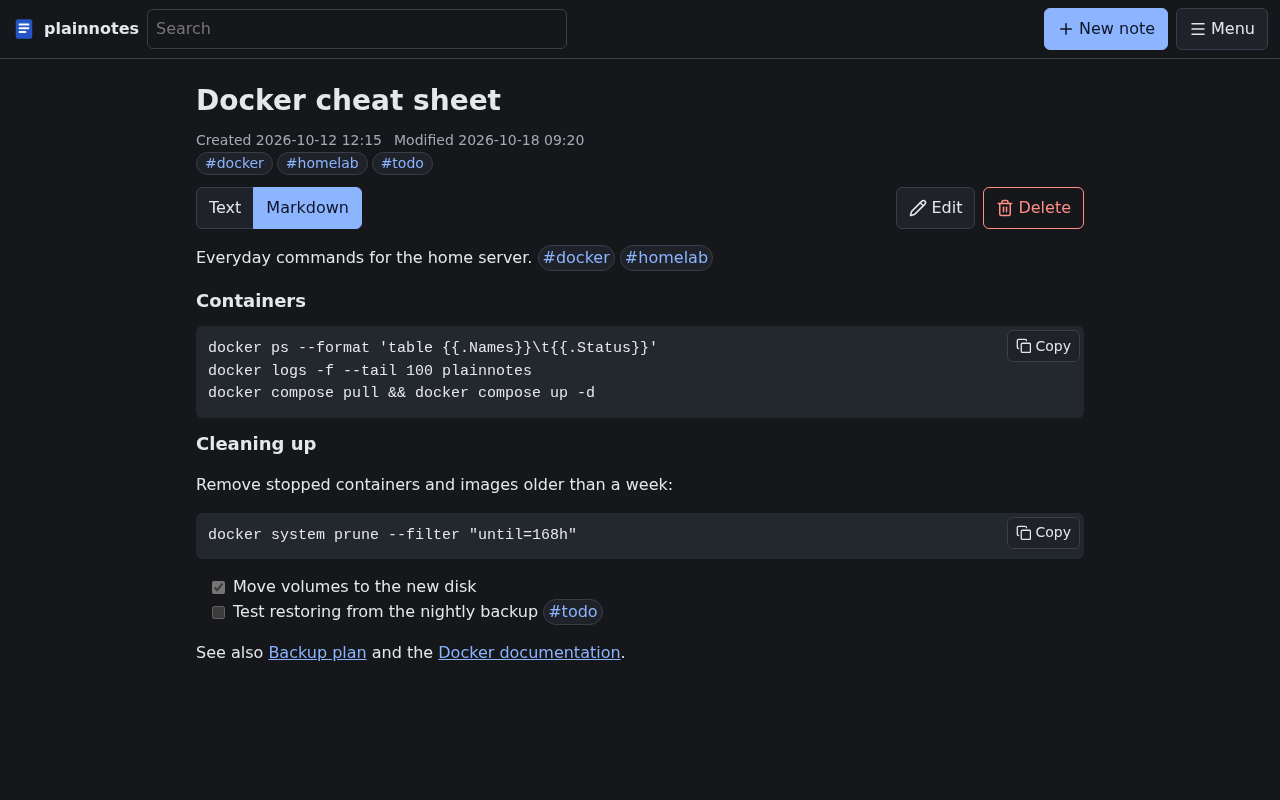
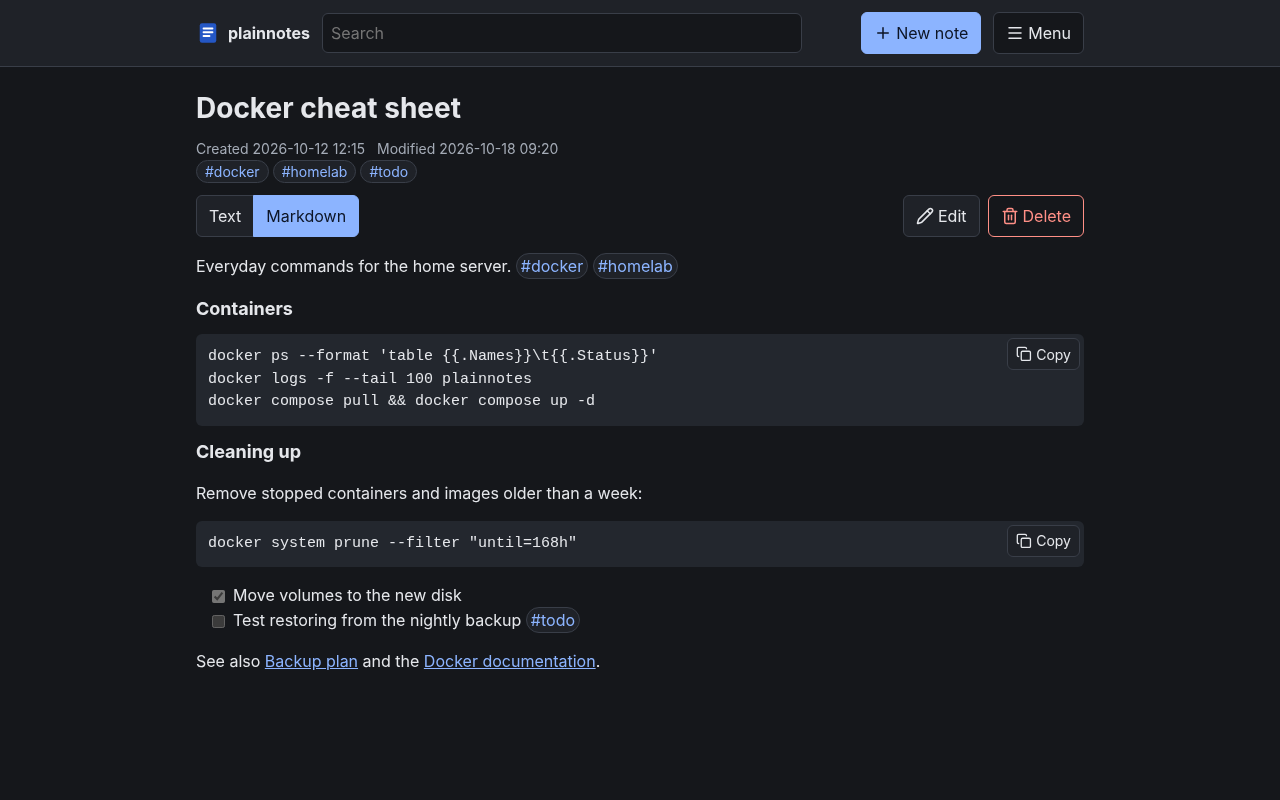
Line the header up with the page and tidy the attachments
The header bar spread its contents to the window edges: the logo and
search at the far left, New note and Menu at the far right, away from
the notes and the editor in the middle. The bar now has a tinted
background and its contents line up with the page column at every
width. Search grows up to 480px.

Attachments, in the editor and the note view, are file tiles: the name
and size on the first line, the buttons on the second with Delete at
the far right. Upload files sits at the right end of the Attachments
heading, as small as the buttons in the tiles. The notes list, search
results and the trash are bordered cards, and "Pinned" and "Other
notes" are small labels above them.

In the editor, the text area has a little more room above it (16px
below the title row) and below it (24px above the attachments). On
phones, Wrap lines, Save and Close get a row of their own, spread across
its width. The login page centres the logo and name. Dialogs share the
cards' corners, and each count on the Tags page sits next to its tag.

Only the stylesheet changes; every page keeps its buttons and behaviour.
New browser tests check the alignment, the editor spacing, the phone
button row and the login heading. The README screenshot is retaken
with the same note.

Claude-Session: https://claude.ai/code/session_011bbeso2KdC9qfkD2dsS5up

diff --git a/app/static/css/app.css b/app/static/css/app.css
@@ -20,6 +20,7 @@
   --space-4: 16px;
   --space-5: 24px;
   --radius: 6px;
+  --radius-card: 8px;
   --touch: 40px;
   --content-width: 920px;
 
@@ -123,12 +124,23 @@ h2 {
   list-style: none;
 }
 
+/* The notes list, search results and the trash: one bordered card, rows divided by lines */
+.note-list,
+.trash-list {
+  border: 1px solid var(--border);
+  border-radius: var(--radius-card);
+}
+
 .note-row,
-.trash-list li,
-.attachments li {
-  padding: var(--space-3) 0;
+.trash-list li {
+  padding: var(--space-3) var(--space-4);
   border-bottom: 1px solid var(--border);
   overflow-wrap: anywhere;
+}
+
+.note-row:last-child,
+.trash-list li:last-child {
+  border-bottom: 0;
 }
 
 .list-head,
@@ -196,7 +208,9 @@ h2 {
   color: var(--danger);
 }
 
-.button.small {
+/* Upload files is as small as the attachment buttons beside it. */
+.button.small,
+.attachments-panel > .button {
   min-height: 32px;
   padding: 2px var(--space-2);
   font-size: 0.875rem;
@@ -250,6 +264,8 @@ select {
 
 /* Header and menu */
 
+/* A tinted bar across the window; its contents line up with the page column (.main) below, whose
+   side padding is the last term of the max(). */
 .app-header {
   position: sticky;
   top: 0;
@@ -257,9 +273,14 @@ select {
   display: flex;
   flex-wrap: wrap;
   align-items: center;
-  gap: var(--space-2);
-  padding: var(--space-2) var(--space-3);
+  gap: var(--space-3);
+  padding-block: var(--space-2);
+  padding-inline: max(var(--space-3), calc((100% - var(--content-width)) / 2 + var(--space-3)));
   border-bottom: 1px solid var(--border);
+  background: var(--bg-raised);
+}
+
+.app-header .button:not(.primary) {
   background: var(--bg);
 }
 
@@ -399,6 +420,7 @@ select {
 .login-form h1 {
   display: flex;
   align-items: center;
+  justify-content: center;
   gap: var(--space-2);
 }
 
@@ -417,6 +439,14 @@ select {
 
 .note-sections > section + section {
   margin-top: var(--space-5);
+}
+
+/* "Pinned" and "Other notes": small labels above their cards */
+.note-sections h2 {
+  color: var(--text-muted);
+  font-size: 0.8125rem;
+  letter-spacing: 0.04em;
+  text-transform: uppercase;
 }
 
 .note-link {
@@ -462,6 +492,15 @@ mark {
   font-size: 0.875rem;
   text-decoration: none;
   overflow-wrap: anywhere;
+}
+
+/* Tags page: more space between tags than between a tag and its count */
+.tag-list {
+  gap: var(--space-2) var(--space-4);
+}
+
+.tag-list li {
+  gap: var(--space-1);
 }
 
 .tag-list .tag {
@@ -539,8 +578,9 @@ mark {
   margin-top: var(--space-5);
 }
 
-.attachments li {
-  padding: var(--space-2) 0;
+.attachments > h2 {
+  margin-bottom: var(--space-2);
+  font-size: 1rem;
 }
 
 /* Rendered Markdown */
@@ -644,6 +684,13 @@ mark {
   font-weight: 600;
 }
 
+/* Phones: Wrap lines, Save and Close get a row of their own, spread across its width. Wider
+   screens put them beside the title. */
+.editor-actions {
+  flex: 1 1 100%;
+  justify-content: space-between;
+}
+
 .dirty-dot {
   font-size: 0.75em;
 }
@@ -652,6 +699,7 @@ mark {
   flex: 1;
   width: 100%;
   min-height: 50vh;
+  margin-top: var(--space-2); /* With the editor's gap: a little more room below the title row */
   padding: var(--space-3);
   font-size: 16px; /* At least 16px, or iOS zooms in on focus. */
   line-height: 1.5;
@@ -663,19 +711,69 @@ mark {
   outline: 2px dashed var(--accent);
 }
 
+/* Attachments (editor): a heading row with Upload files at its right end, then the file tiles */
 .attachments-panel {
-  padding-top: var(--space-2);
-  border-top: 1px solid var(--border);
+  display: grid;
+  grid-template-columns: minmax(0, 1fr) auto;
+  align-items: center;
+  gap: var(--space-2);
+  margin-top: var(--space-4);
+}
+
+.attachments-panel > h2 {
+  margin: 0;
+  font-size: 1rem;
+}
+
+.attachments-panel > .button {
+  grid-row: 1;
+  grid-column: 2;
+}
+
+.attachments-panel > :not(h2, .button) {
+  grid-column: 1 / -1;
+}
+
+.attachments-panel > p {
+  margin: 0;
+}
+
+.attachment-rows:empty {
+  display: none;
+}
+
+/* File tiles, in the editor and the note view: as many columns as fit, at least 340px wide */
+.attachment-rows,
+.attachments ul {
+  display: grid;
+  grid-template-columns: repeat(auto-fill, minmax(min(100%, 340px), 1fr));
+  gap: var(--space-2);
 }
 
 .attachment-rows li,
-.upload-row {
-  padding: var(--space-1) 0;
+.attachments li {
+  padding: var(--space-3);
+  border: 1px solid var(--border);
+  border-radius: var(--radius-card);
+  background: var(--bg-raised);
   overflow-wrap: anywhere;
 }
 
-.attachment-rows .name {
-  flex: 1 1 160px;
+/* Line 1: the file name, with its size at the right. Line 2: the buttons, Delete at the far right.
+   The name's basis leaves room for the size but not for a button, so the buttons always wrap. */
+.attachment-rows .name,
+.attachments li > a {
+  flex: 1 1 calc(100% - 96px);
+  font-weight: 600;
+}
+
+.attachment-rows .muted,
+.attachments li > .muted {
+  flex: none;
+}
+
+.attachment-rows .danger {
+  margin-left: auto;
 }
 
 .upload-row progress {
@@ -688,7 +786,7 @@ mark {
   width: min(480px, calc(100vw - 2 * var(--space-4)));
   padding: var(--space-4);
   border: 1px solid var(--border);
-  border-radius: var(--radius);
+  border-radius: var(--radius-card);
   background: var(--bg);
   color: var(--text);
   box-shadow: var(--shadow);
@@ -752,18 +850,29 @@ mark {
 /* Wider screens */
 
 @media (min-width: 720px) {
+  /* The last term matches the side padding of .main at this width. */
+  .app-header {
+    padding-block: var(--space-3);
+    padding-inline: max(var(--space-4), calc((100% - var(--content-width)) / 2 + var(--space-4)));
+  }
+
   .search {
     order: 0;
     flex: 1 1 auto;
-    max-width: 420px;
+    max-width: 480px;
   }
 
   .main {
-    padding: var(--space-5) var(--space-4);
+    padding: var(--space-5) var(--space-4) calc(2 * var(--space-5));
   }
 
   h1 {
     font-size: 1.75rem;
+  }
+
+  .editor-actions {
+    flex: 0 1 auto;
+    justify-content: flex-start;
   }
 
   .editor-text {

diff --git a/tests/test_e2e.py b/tests/test_e2e.py
@@ -658,6 +658,82 @@ def test_upload_image_and_see_it_in_markdown(page: Page, server: Server, tmp_pat
     expect(image_element).to_have_js_property("naturalWidth", 24)
 
 
+# --- layout ---------------------------------------------------------------------------
+
+
+def box(locator: Locator) -> dict[str, float]:
+    found = locator.bounding_box()
+    assert found is not None, locator
+    return found
+
+
+def right(found: dict[str, float]) -> float:
+    return found["x"] + found["width"]
+
+
+def bottom(found: dict[str, float]) -> float:
+    return found["y"] + found["height"]
+
+
+def middle(found: dict[str, float]) -> float:
+    return found["y"] + found["height"] / 2
+
+
+@pytest.mark.parametrize("width", [1680, 1000, 390])
+def test_header_lines_up_with_the_page_column(page: Page, width: int) -> None:
+    create_note(page, unique("Column"), "")
+    page.set_viewport_size({"width": width, "height": 800})
+    page.goto("#/")
+    notes = box(page.locator(".note-list").first)
+    assert box(page.locator(".brand"))["x"] == pytest.approx(notes["x"], abs=1)
+    assert right(box(page.locator(".menu > summary"))) == pytest.approx(right(notes), abs=1)
+
+
+@pytest.mark.parametrize("width", [1280, 390])
+def test_editor_spacing_and_button_row(page: Page, width: int) -> None:
+    note = create_note(page, unique("Layout"), "text\n")
+    page.set_viewport_size({"width": width, "height": 844})
+    page.goto(f"#/note/{note['id']}/edit")
+    title = box(page.locator("#note-title"))
+    text = box(page.get_by_label("Note text"))
+    panel = box(page.locator(".attachments-panel"))
+    # A little room between the title row and the text, and between the text and the attachments.
+    assert text["y"] - bottom(box(page.locator(".editor-bar"))) == pytest.approx(16, abs=1)
+    assert panel["y"] - bottom(text) == pytest.approx(24, abs=1)
+    # Wrap lines, Save and Close: one row that ends at the right edge of the text.
+    row = [
+        box(page.locator(".editor-actions .check")),
+        box(page.get_by_role("button", name="Save", exact=True)),
+        box(page.get_by_role("button", name="Close", exact=True)),
+    ]
+    assert all(middle(found) == pytest.approx(middle(row[0]), abs=1) for found in row)
+    assert right(row[-1]) == pytest.approx(right(text), abs=1)
+    if width >= 720:
+        assert middle(row[0]) == pytest.approx(middle(title), abs=1)
+    else:
+        # Phones: a row of its own below the title, spread evenly across the full width.
+        assert row[0]["y"] > bottom(title)
+        assert row[0]["x"] == pytest.approx(title["x"], abs=1)
+        gaps = [row[1]["x"] - right(row[0]), row[2]["x"] - right(row[1])]
+        assert gaps[0] == pytest.approx(gaps[1], abs=1)
+
+
+def test_login_title_is_centred(context: BrowserContext) -> None:
+    page = context.new_page()
+    page.goto("#/login")
+    margins = page.locator(".login-form h1").evaluate(
+        """(heading) => {
+        const range = document.createRange();
+        range.selectNodeContents(heading);
+        const content = range.getBoundingClientRect();
+        const outer = heading.getBoundingClientRect();
+        return [content.left - outer.left, outer.right - content.right];
+    }"""
+    )
+    assert margins[0] > 0
+    assert margins[0] == pytest.approx(margins[1], abs=1)
+
+
 # --- button icons ---------------------------------------------------------------------
 
 
